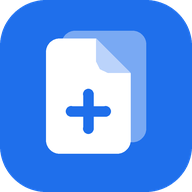
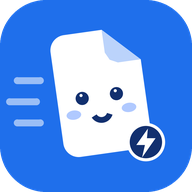
Add files via upload

Changed region(s): [[0.0312, 0.1562, 0.875, 0.8438], [0.3438, 0.4375, 0.5938, 0.7188]]

diff --git a/index.html b/index.html
@@ -3,11 +3,11 @@
 <head>
 <meta charset="utf-8">
 <meta name="viewport" content="width=device-width, initial-scale=1, viewport-fit=cover">
-<title>Lembarku</title>
+<title>SatSet</title>
 <meta name="theme-color" content="#1f6feb">
 <meta name="apple-mobile-web-app-capable" content="yes">
 <meta name="mobile-web-app-capable" content="yes">
-<meta name="apple-mobile-web-app-title" content="Lembarku">
+<meta name="apple-mobile-web-app-title" content="SatSet">
 <link rel="icon" type="image/png" sizes="192x192" href="icon-192.png">
 <link rel="apple-touch-icon" href="apple-touch-icon.png">
 <link rel="manifest" href="manifest.webmanifest">
@@ -95,17 +95,17 @@ input[type=range]{width:100%;accent-color:var(--focus)}
 </style>
 </head>
 <body>
-<div class="splash" id="splash" role="button" tabindex="0" aria-label="Masuk ke Lembarku">
+<div class="splash" id="splash" role="button" tabindex="0" aria-label="Masuk ke SatSet">
   <i class="d"></i><i class="d"></i>
   <span class="lg" data-logo="124"></span>
-  <h1>Lembarku</h1>
-  <p>Tugas beres, hidup tenang.</p>
+  <h1>SatSet</h1>
+  <p>Sat set, tugas kelar.</p>
   <small>Ketuk untuk masuk</small>
 </div>
 
 <main>
   <section id="s-home" class="scr" hidden>
-    <div class="top"><span data-logo="42"></span><h1>Lembarku</h1></div>
+    <div class="top"><span data-logo="42"></span><h1>SatSet</h1></div>
     <h2>Hai! Mau beresin apa hari ini?</h2>
     <div class="hero box">
       <h3>Foto ke PDF</h3>
@@ -185,7 +185,7 @@ input[type=range]{width:100%;accent-color:var(--focus)}
 <script src="https://cdnjs.cloudflare.com/ajax/libs/jspdf/2.5.1/jspdf.umd.min.js"></script>
 <script>
 const $=id=>document.getElementById(id);
-const LOGO=(s,x='')=>`<svg width="${s}" height="${s}" viewBox="0 0 100 100" role="img" aria-label="Logo Lembarku" style="border-radius:${s*.24}px;${x}"><rect width="100" height="100" rx="24" fill="#1F6FEB"/><g transform="translate(-2 0)"><rect x="34" y="16" width="44" height="58" rx="7" fill="#fff" opacity="0.4"/><path d="M26 27a7 7 0 0 1 7-7h19l18 18v36a7 7 0 0 1-7 7H33a7 7 0 0 1-7-7z" fill="#fff"/><path d="M52 20v12a6 6 0 0 0 6 6h12z" fill="#BBD3FB"/><path d="M48 49v18M39 58h18" stroke="#1F6FEB" stroke-width="5.5" stroke-linecap="round" fill="none"/></g></svg>`;
+const LOGO=(s,x='')=>`<svg width="${s}" height="${s}" viewBox="0 0 100 100" role="img" aria-label="Logo SatSet" style="border-radius:${s*.24}px;${x}"><rect width="100" height="100" rx="24" fill="#1F6FEB"/><path d="M9 42h12M5 53h14M9 64h12" stroke="#fff" stroke-opacity=".55" stroke-width="3.6" stroke-linecap="round"/><g transform="rotate(8 52 52)"><path d="M38 16H58L76 34V72a8 8 0 0 1-8 8H38a8 8 0 0 1-8-8V24a8 8 0 0 1 8-8Z" fill="#fff"/><path d="M58 16v12a6 6 0 0 0 6 6h12Z" fill="#BBD3FB"/><circle cx="43" cy="50" r="3.4" fill="#12306F"/><circle cx="61" cy="50" r="3.4" fill="#12306F"/><circle cx="42.4" cy="48.8" r="1" fill="#fff"/><circle cx="60.4" cy="48.8" r="1" fill="#fff"/><path d="M46.6 60.5A6 6 0 0 0 57.4 60.5" fill="none" stroke="#12306F" stroke-width="3" stroke-linecap="round"/><ellipse cx="37.5" cy="58" rx="3.8" ry="2.4" fill="#B0C9FF"/><ellipse cx="66.5" cy="58" rx="3.8" ry="2.4" fill="#B0C9FF"/></g><circle cx="76" cy="74" r="10" fill="#12306F" stroke="#fff" stroke-width="1.6"/><path d="M77 67 71 75.5h4.5L74 82l7-10h-4.5Z" fill="#fff"/></svg>`;
 document.querySelectorAll('[data-logo]').forEach(e=>{const s=+e.dataset.logo;e.innerHTML=LOGO(s,s>100?'box-shadow:0 0 0 1px rgba(255,255,255,.55),0 22px 44px rgba(10,30,110,.45),inset 0 1px 0 rgba(255,255,255,.6)':'')});
 const ico=p=>`<svg width="24" height="24" viewBox="0 0 24 24" fill="none" stroke="currentColor" stroke-width="2" stroke-linecap="round" stroke-linejoin="round" aria-hidden="true">${p}</svg>`;
 const FE=[

diff --git a/sw.js b/sw.js
@@ -1,4 +1,4 @@
-const V='lembarku-v2',F=['./','index.html','manifest.webmanifest','icon-192.png','icon-512.png','apple-touch-icon.png'];
+const V='satset-v1',F=['./','index.html','manifest.webmanifest','icon-192.png','icon-512.png','apple-touch-icon.png'];
 self.addEventListener('install',e=>{e.waitUntil(caches.open(V).then(c=>c.addAll(F)).then(()=>self.skipWaiting()))});
 self.addEventListener('activate',e=>{e.waitUntil(caches.keys().then(k=>Promise.all(k.filter(x=>x!==V).map(x=>caches.delete(x)))).then(()=>self.clients.claim()))});
 self.addEventListener('fetch',e=>{if(e.request.method!=='GET')return;
